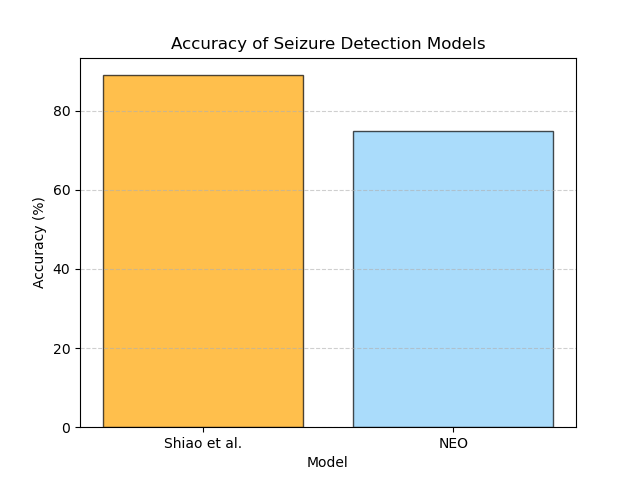
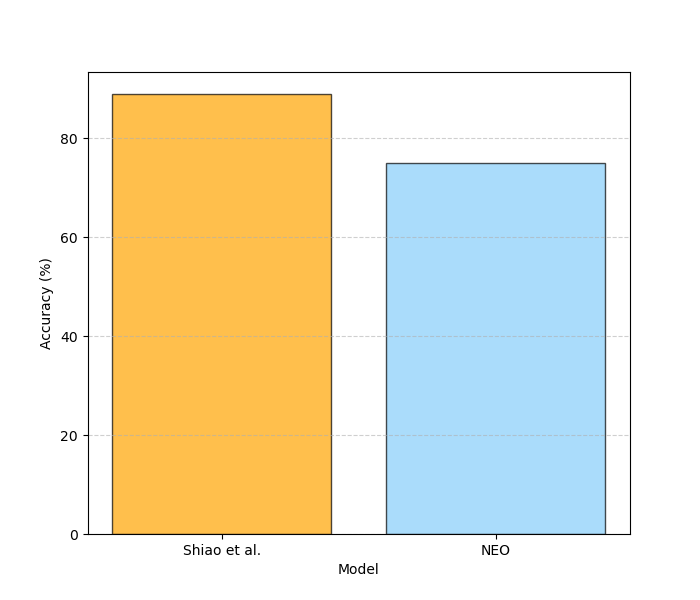
EMBC graphs all

diff --git a/EMBC_graphs/model_power.py b/EMBC_graphs/model_power.py
@@ -1,0 +1,39 @@
+import matplotlib.pyplot as plt
+
+# Data for the components and their total power
+components = ['AVG', 'BBF', 'FFT', 'PWXC', 'SVM', 'THR', 'TKEO']
+total_power = [0.0003219456, 0.030179328, 2.84672, 0.002269184, 0.003465, 2.8e-10, 0.03489792]
+
+# Create a figure for linear scale
+plt.figure(figsize=(7, 6))
+
+# Plot with linear scale
+plt.bar(components, total_power, color=['orange', 'lightskyblue', 'green', 'red', 'purple', 'brown', 'pink'], 
+    edgecolor='black', alpha=0.7)
+plt.grid(axis='y', linestyle='--', alpha=0.6)
+plt.xlabel('Component')
+plt.ylabel('Total Power (W)')
+# plt.title('Total Power of Components (Linear Scale)')
+
+# Adjust layout and save the plot
+plt.tight_layout()
+plt.savefig('plots/total_power_components_linear.png')
+
+# Create a figure for logarithmic scale
+plt.figure(figsize=(7, 6))
+
+# Plot with logarithmic scale
+plt.bar(components, total_power, color=['orange', 'lightskyblue', 'green', 'red', 'purple', 'brown', 'pink'], 
+    edgecolor='black', alpha=0.7)
+plt.grid(axis='y', linestyle='--', alpha=0.6)
+plt.yscale('log')
+plt.xlabel('Component')
+plt.ylabel('Total Power (W)')
+# plt.title('Total Power of Components (Log Scale)')
+
+# Adjust layout and save the plot
+plt.tight_layout()
+plt.savefig('plots/total_power_components_log.png')
+
+# Show plots
+# plt.show()

diff --git a/EMBC_graphs/model_latency.py b/EMBC_graphs/model_latency.py
@@ -1,0 +1,30 @@
+import matplotlib.pyplot as plt
+
+# Data for the components and their total latency
+components = ['AVG', 'BBF', 'FFT', 'PWXC', 'SVM', 'THR', 'TKEO']
+total_latency = [56852.48, 67584.0, 5132779.52, 75776.0, 14.32,  0.86, 63078.4]
+
+# Plot with linear scale
+plt.figure(figsize=(7, 6))
+plt.bar(components, total_latency, color=['orange', 'lightskyblue', 'green', 'red', 'purple', 'brown', 'pink'], 
+    edgecolor='black', alpha=0.7)
+plt.grid(axis='y', linestyle='--', alpha=0.6)
+plt.xlabel('Component')
+plt.ylabel('Total Latency (ns)')
+# plt.title('Total Latency of Components (Linear Scale)')
+plt.tight_layout()
+plt.savefig('plots/total_latency_components_linear.png')
+plt.close()
+
+# Plot with logarithmic scale
+plt.figure(figsize=(7, 6))
+plt.bar(components, total_latency, color=['orange', 'lightskyblue', 'green', 'red', 'purple', 'brown', 'pink'], 
+    edgecolor='black', alpha=0.7)
+plt.yscale('log')
+plt.grid(axis='y', linestyle='--', alpha=0.6)
+plt.xlabel('Component')
+plt.ylabel('Total Latency (ns)')
+# plt.title('Total Latency of Components (Logarithmic Scale)')
+plt.tight_layout()
+plt.savefig('plots/total_latency_components_log.png')
+plt.close()

diff --git a/EMBC_graphs/model_accuracy.py b/EMBC_graphs/model_accuracy.py
@@ -4,6 +4,7 @@ import matplotlib.pyplot as plt
 models = ['Shiao et al.', 'NEO']
 accuracies = [89, 75]
 
+plt.figure(figsize=(7, 6))
 # Create the bar plot with transparent colors and thin boundary lines
 plt.bar(models, accuracies, color=['orange', 'lightskyblue'], edgecolor='black', alpha=0.7)
 
@@ -13,8 +14,7 @@ plt.grid(axis='y', linestyle='--', alpha=0.6)
 # Add labels and title
 plt.xlabel('Model')
 plt.ylabel('Accuracy (%)')
-plt.title('Accuracy of Seizure Detection Models')
-
+# plt.title('Accuracy of Seizure Detection Models')
 
 # Save the plot
 plt.savefig('plots/model_accuracy.png')
